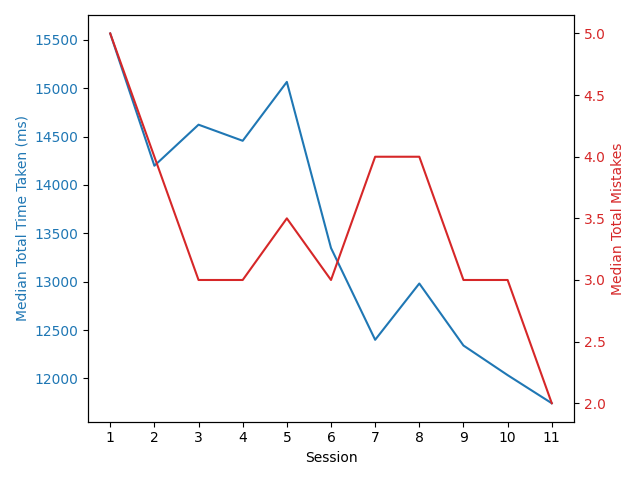
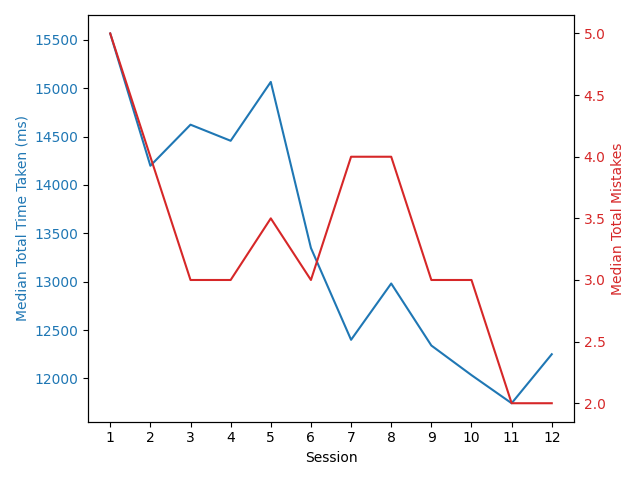
Session 12

diff --git a/analysis/generate_agg_data.py b/analysis/generate_agg_data.py
@@ -103,7 +103,7 @@ def generate_agg_data(sessions):
     print("Aggregate data generated successfully.")
 
 
-upr = 12
+upr = 13
 
 generate_agg_data([str(i) for i in range(1, upr)])
 generate_lm(

diff --git a/analysis/generate_session_data.py b/analysis/generate_session_data.py
@@ -8,7 +8,7 @@ from generate_rolling import generate_rolling
 
 session_ID = "n"
 
-for i in range(11, 12):
+for i in range(12, 13):
     session_ID = str(i)
 
     localStorage_to_raw(session_ID)
